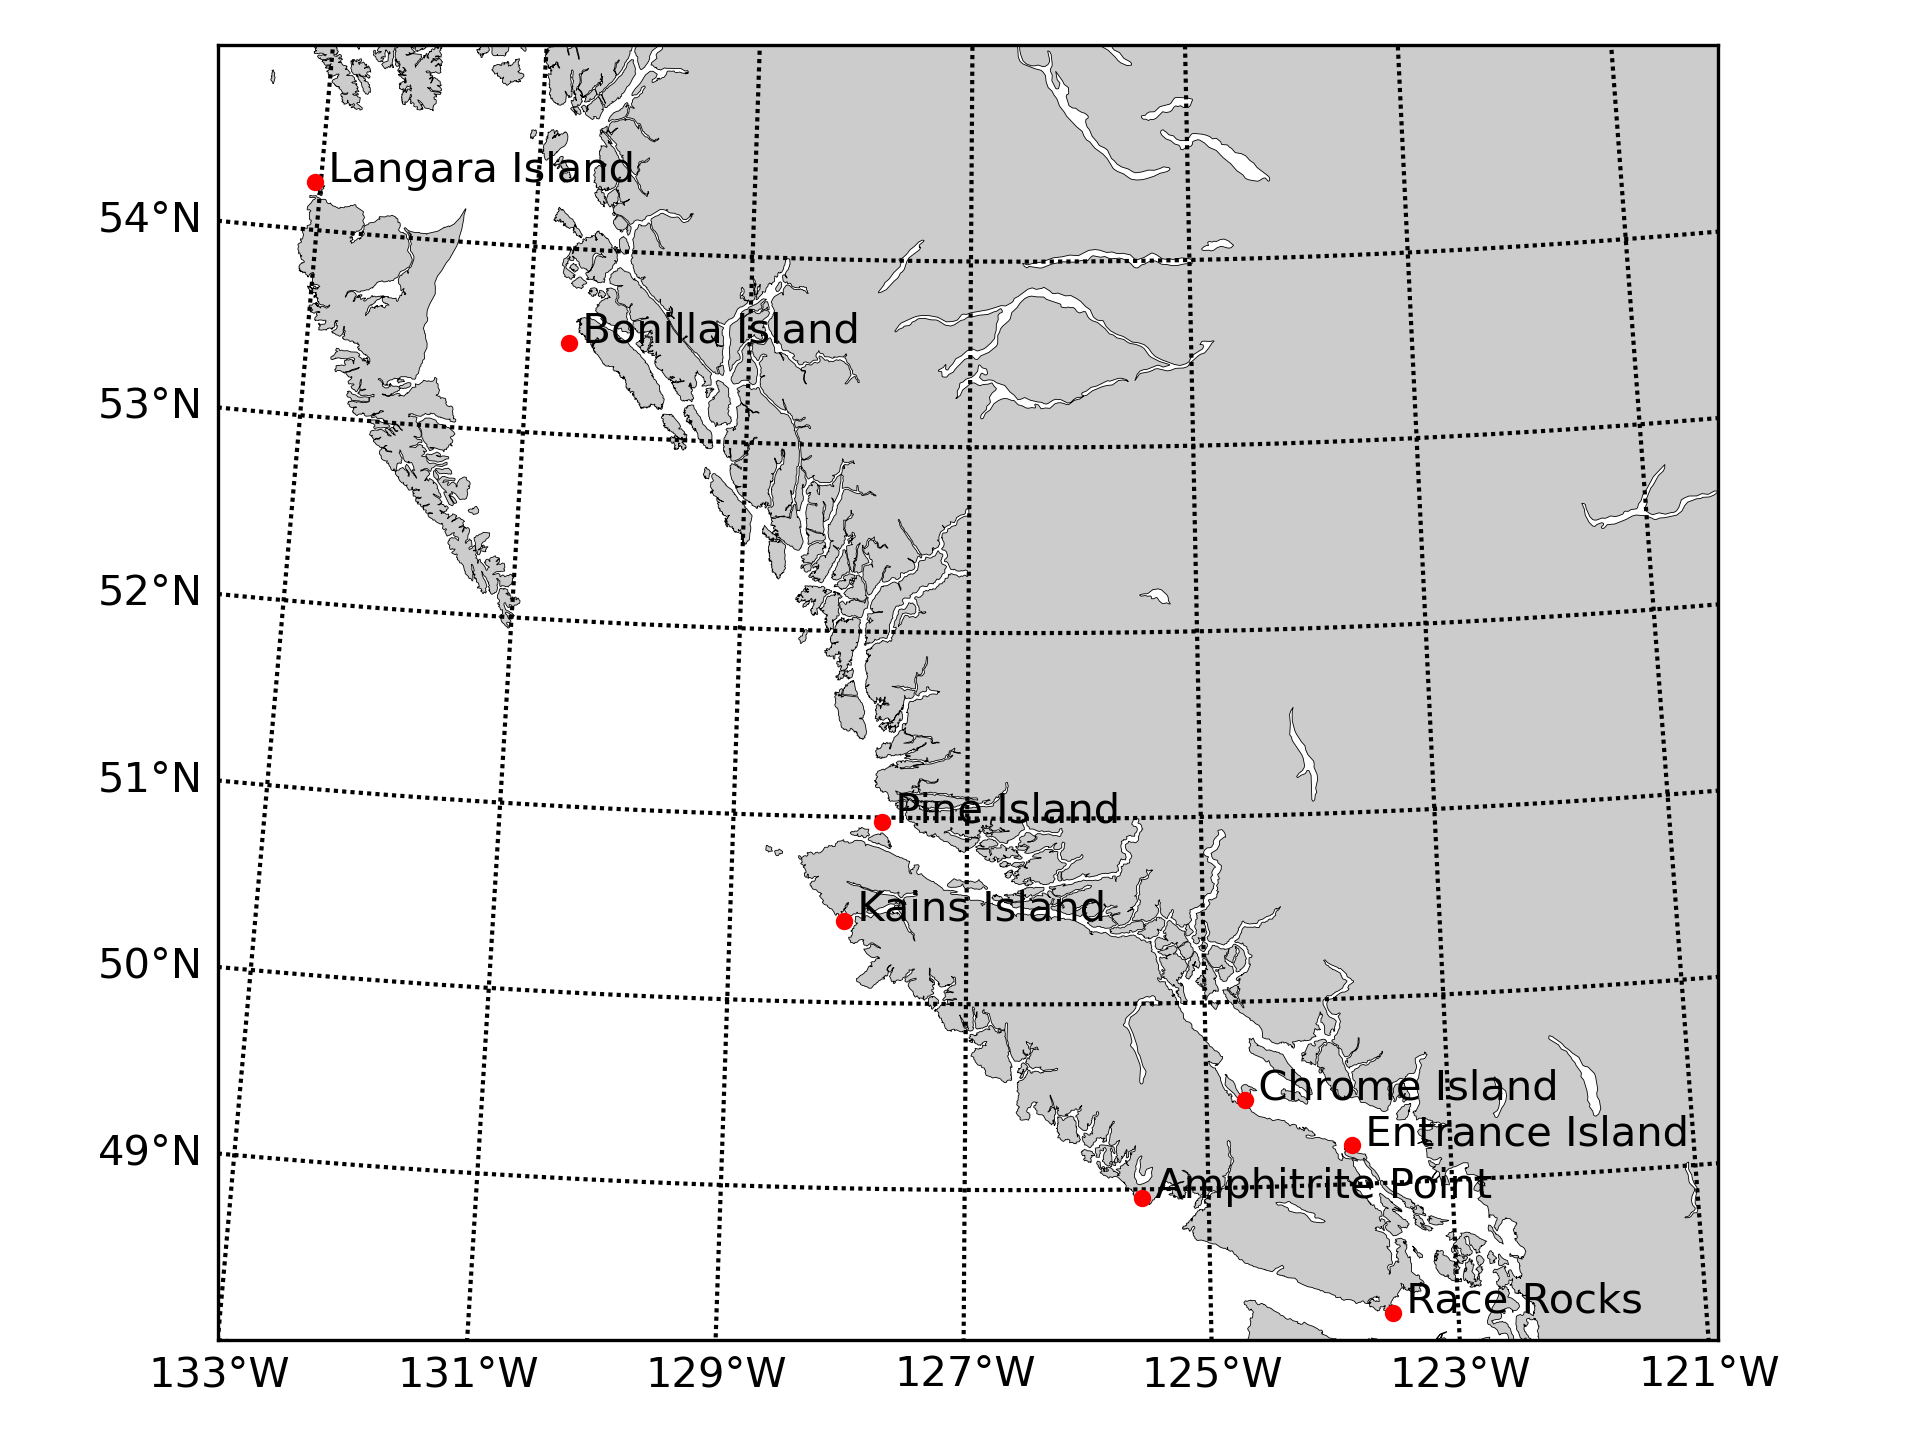
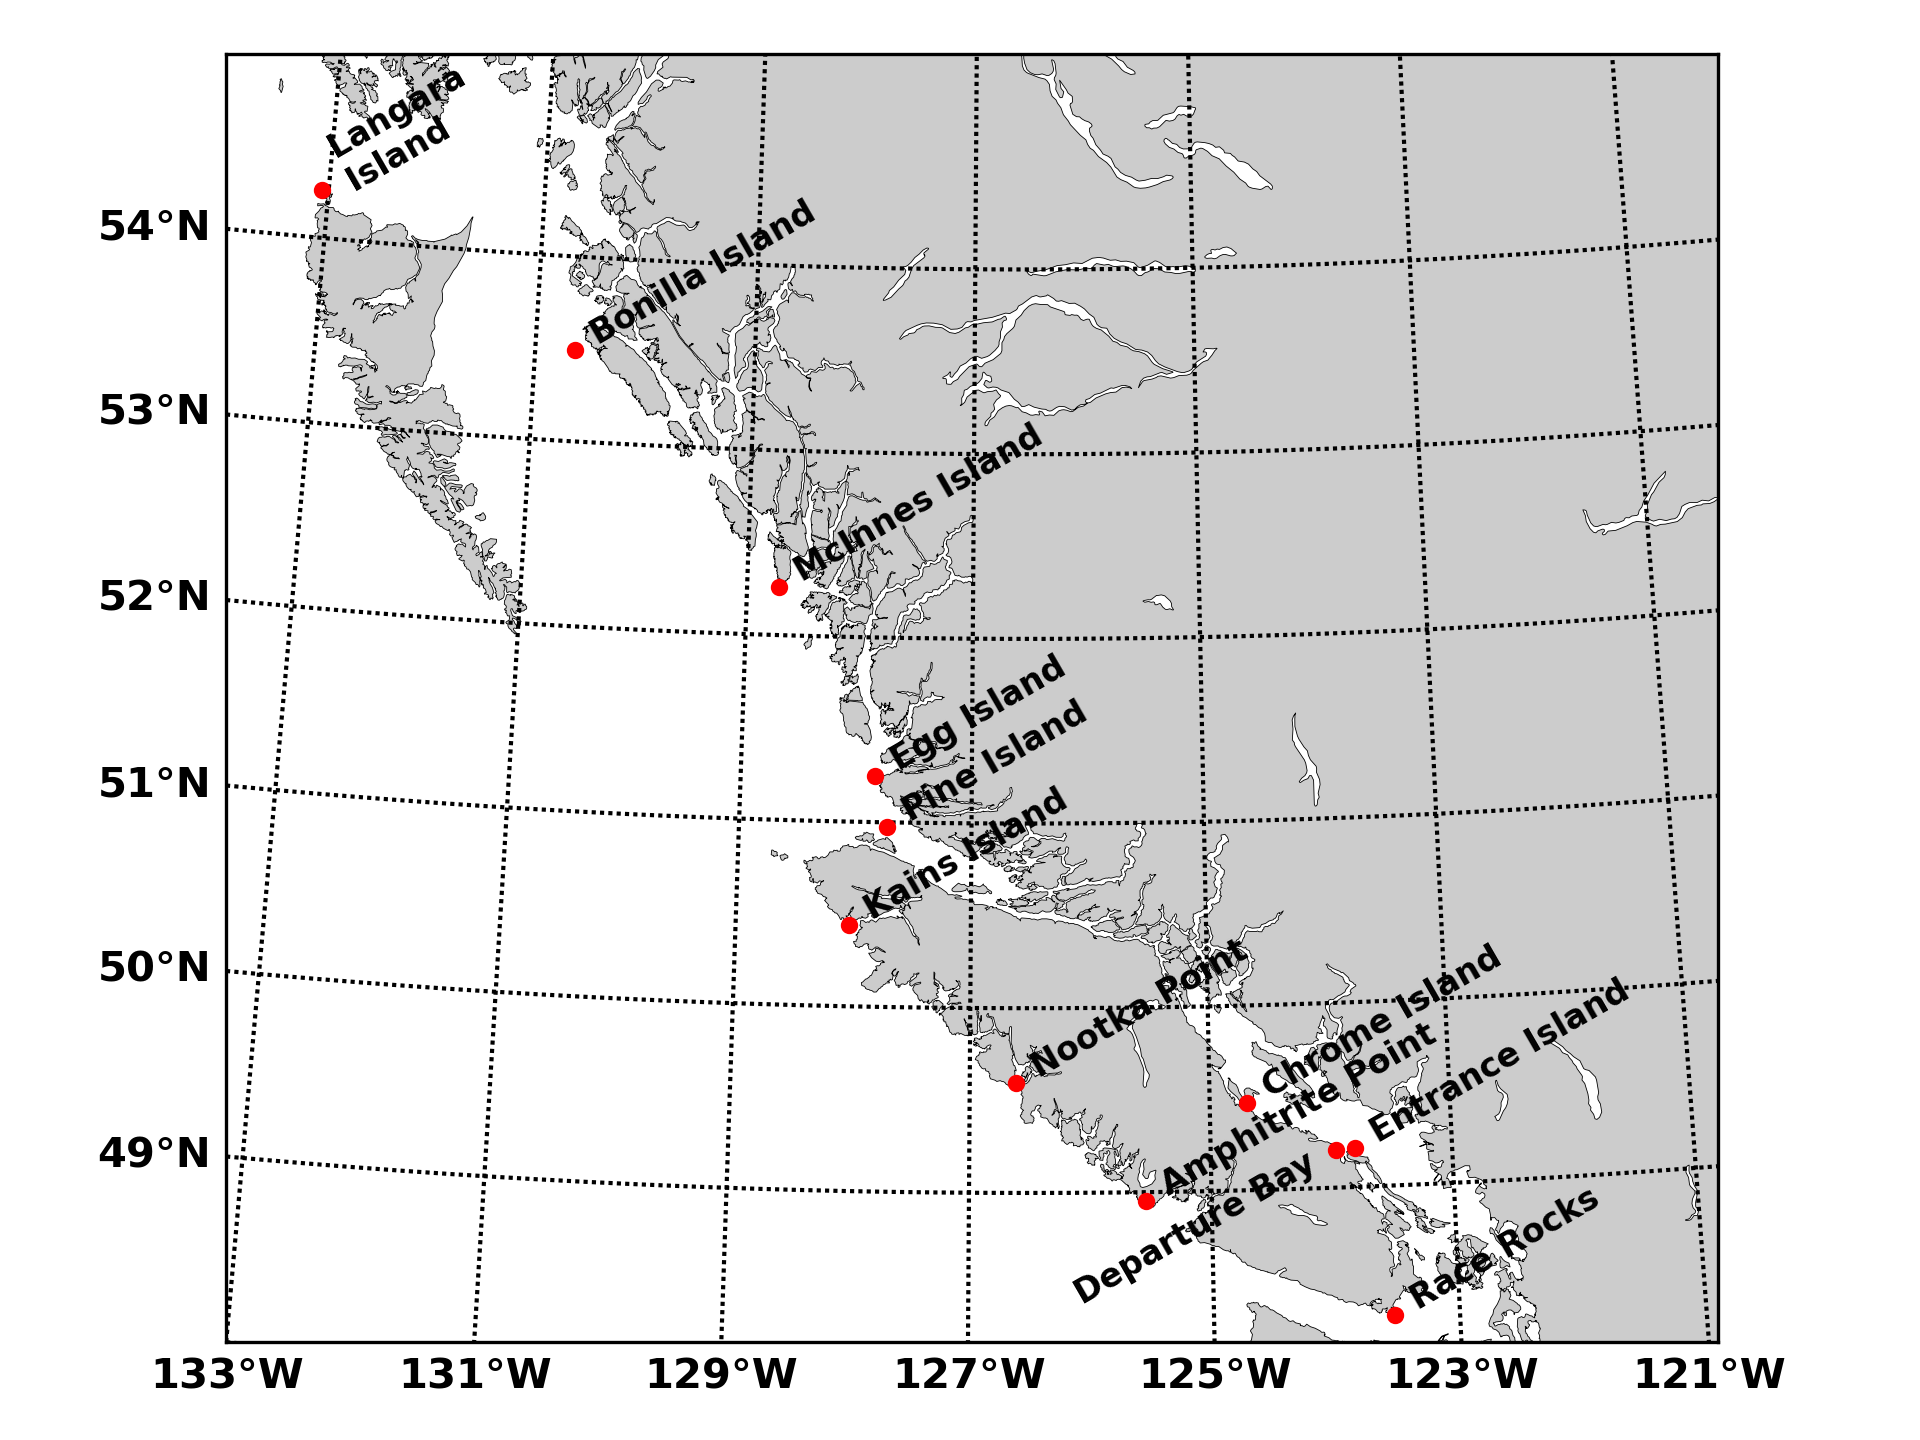
add remaining 4 active stations to map

diff --git a/scripts/map_lightstation_points.py b/scripts/map_lightstation_points.py
@@ -12,6 +12,9 @@ point_file = '.\\data\\coordinates.csv'
 
 df = pd.read_csv(point_file, index_col=[0])
 
+# Add column containing abbreviation of each station name
+df['Name_abbrev'] = [n[0] + n.split(' ')[1][0] for n in df.index]
+
 # Initialize plot
 fig, ax = plt.subplots()
 
@@ -41,7 +44,15 @@ m.scatter(x, y, marker='o', color='r', s=10, zorder=5)
 # https://stackoverflow.com/questions/59740782/labelling-multiple-points-from-csv-in-basemap
 pad = ' '
 for i in range(len(df.index)):
-    ax.annotate(pad + df.index[i], (x[i], y[i]))
+    if df.index[i] == 'Departure Bay':
+        # Flip the text so the data point is on its right instead of its left
+        ax.annotate(df.index[i], (x[i], y[i]), xytext=(-64, -37), textcoords='offset points',
+                    fontsize=8, rotation=30)
+        pass
+    elif df.index[i] == 'Langara Island':
+        ax.annotate('Langara\nIsland', (x[i], y[i]), fontsize=8, rotation=30)
+    else:
+        ax.annotate(pad + df.index[i], (x[i], y[i]), fontsize=8, rotation=30)
 
 # Plot formatting
 plot_name = '.\\figures\\lightstation_map.png'
